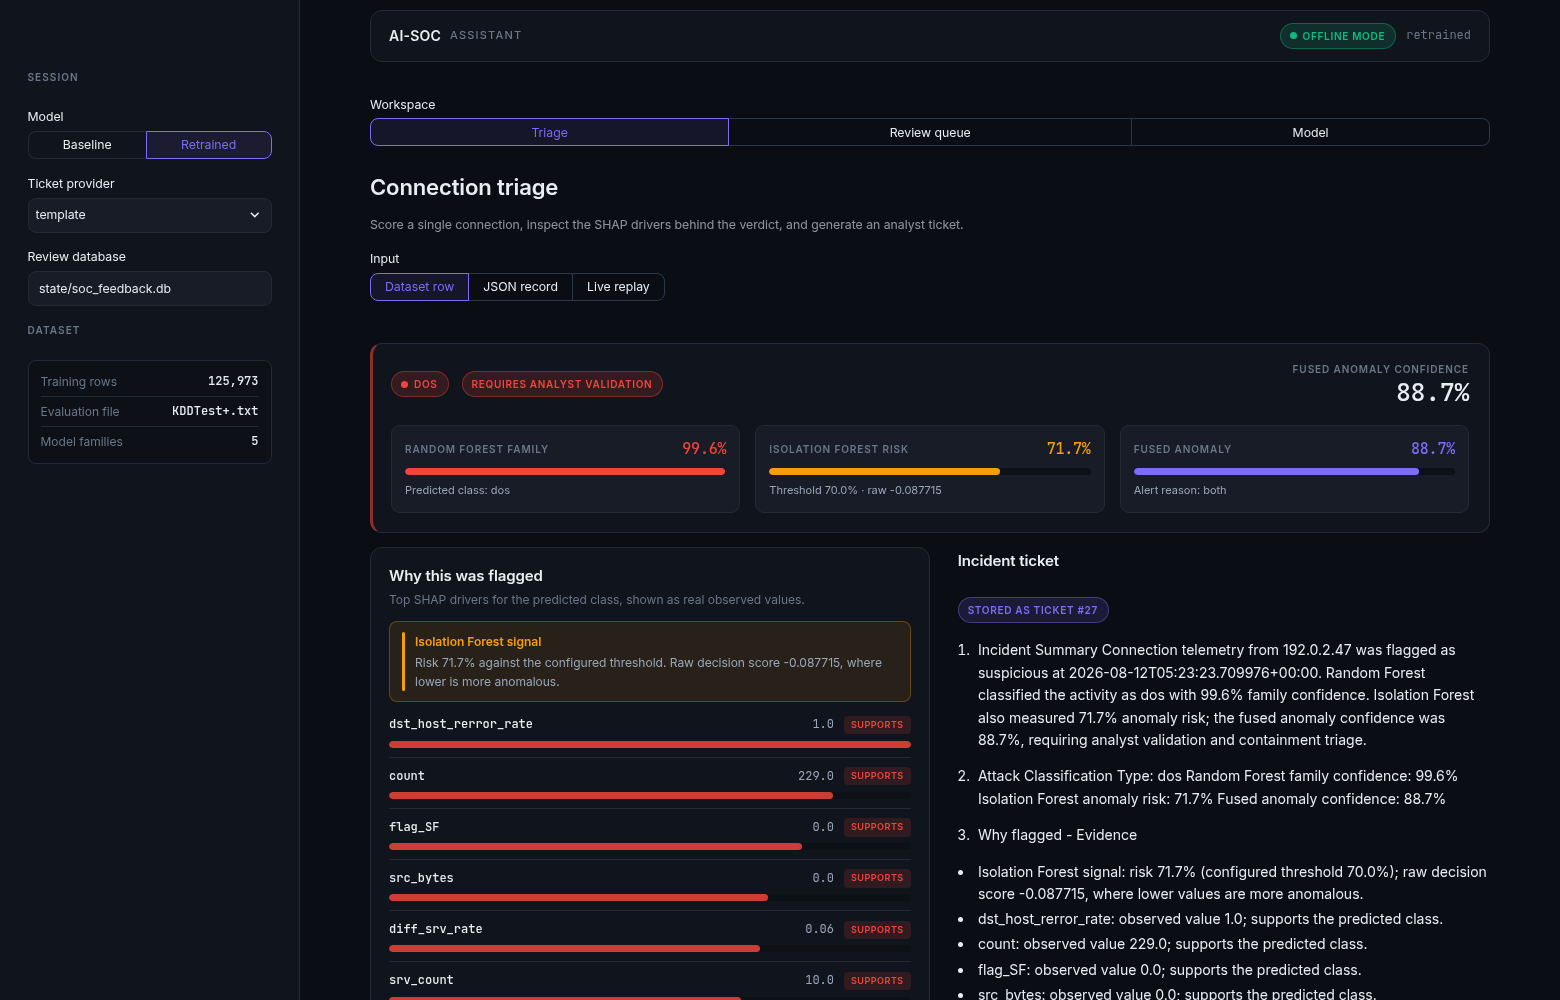
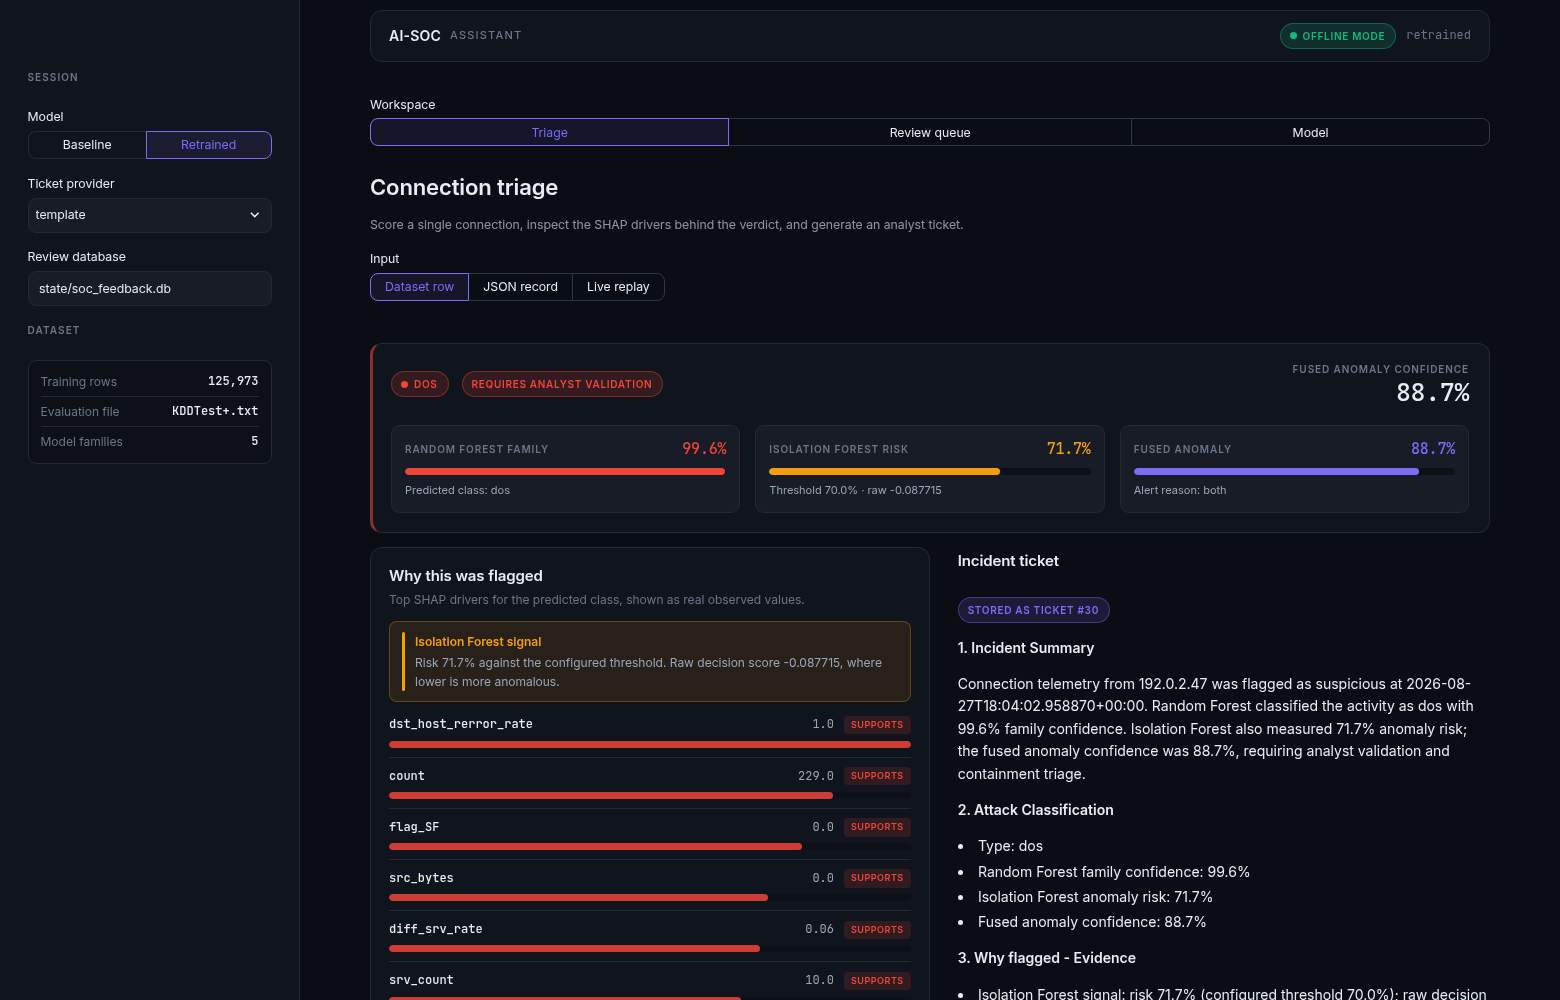
fix(agent): render incident ticket sections as valid Markdown
Two separate defects made the generated ticket render as run-on text.

- Section titles were emitted as bare "1. Incident Summary". Markdown
  reads that as an ordered-list item and absorbs the following line by
  lazy continuation, merging heading and body. Titles are now bold and
  followed by a blank line.
- The Attack Classification body joined its key/value lines with single
  newlines, which Markdown folds into one paragraph. All three alert
  branches now emit a bullet list.

_section_body() already tolerates surrounding [ #*] and strips blank
lines, so the byte-for-byte section comparison in the LLM output
validator is unaffected and needed no change. Refresh the README
screenshot to show the corrected rendering.

Changed region(s): [[0.6154, 0.62, 0.9538, 1.0]]

diff --git a/src/agent.py b/src/agent.py
@@ -531,10 +531,10 @@ def render_template_ticket(
             "containment triage."
         )
         classification = (
-            f"Type: {rf_class}\n"
-            f"Random Forest family confidence: {rf_confidence}\n"
-            f"Isolation Forest anomaly risk: {isolation_risk}\n"
-            f"Fused anomaly confidence: {fused_confidence}"
+            f"- Type: {rf_class}\n"
+            f"- Random Forest family confidence: {rf_confidence}\n"
+            f"- Isolation Forest anomaly risk: {isolation_risk}\n"
+            f"- Fused anomaly confidence: {fused_confidence}"
         )
     else:
         summary = (
@@ -542,24 +542,36 @@ def render_template_ticket(
             f"Random Forest classified the activity as {rf_class} with {rf_confidence} family "
             "confidence, requiring analyst validation and containment triage."
         )
-        classification = f"Type: {rf_class}\nRandom Forest family confidence: {rf_confidence}"
+        classification = (
+            f"- Type: {rf_class}\n" f"- Random Forest family confidence: {rf_confidence}"
+        )
 
-    return f"""1. Incident Summary
+    # Section titles are emitted bold and followed by a blank line. A bare "1. Title"
+    # line is an ordered-list item in Markdown, and the following line is absorbed into
+    # it by lazy continuation, so the heading and its body render as one run-on line.
+    # _section_body() tolerates surrounding [ #*] and strips blank lines, so the bodies
+    # the LLM validator compares are unaffected by this formatting.
+    return f"""**1. Incident Summary**
+
 {summary}
 
-2. Attack Classification
+**2. Attack Classification**
+
 {classification}
 
-3. Why flagged - Evidence
+**3. Why flagged - Evidence**
+
 {evidence}
 
-4. Immediate Containment Steps
+**4. Immediate Containment Steps**
+
 1. Validate whether {source_ip} maps to an expected internal asset or approved scanner.
 2. Review recent authentication, connection, and firewall events involving the source and destination pair.
 3. Temporarily restrict the source if the activity is unauthorized or recurring.
 4. Preserve packet, flow, and endpoint evidence before remediation.
 
-5. Investigation Queries
+**5. Investigation Queries**
+
 ```spl
 index=network sourcetype=firewall src_ip="{source_ip}" earliest=-24h
 | stats count, values(action), values(dest_ip), values(dest_port), values(app) by src_ip
@@ -570,7 +582,8 @@ index=network sourcetype=ids src_ip="{source_ip}" earliest=-24h
 | table _time signature severity src_ip dest_ip dest_port
 ```
 
-6. Escalation Recommendation
+**6. Escalation Recommendation**
+
 P2 - Escalate to the SOC lead if the traffic is not attributable to approved scanning, backup, or administrative activity. Raise to P1 if the same source shows confirmed exploitation, lateral movement, or impact on production services."""
 
 

diff --git a/tests/test_agent.py b/tests/test_agent.py
@@ -230,7 +230,8 @@ def test_empty_or_malformed_model_response_falls_back_to_safe_template(model_res
         agent_executor=StubAgent(),
         timestamp="2026-08-10T00:00:00+00:00",
     )
-    assert result.startswith("1. Incident Summary")
+    # Section titles are emitted bold, so assert on the title rather than a bare prefix.
+    assert result.startswith("**1. Incident Summary**")
     assert "0.123456789" not in result
 
 
